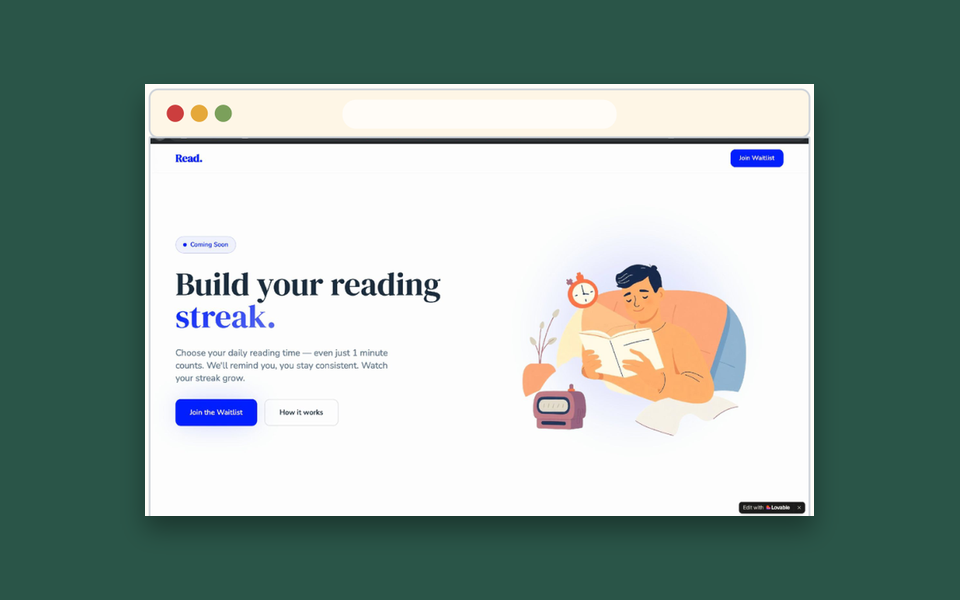
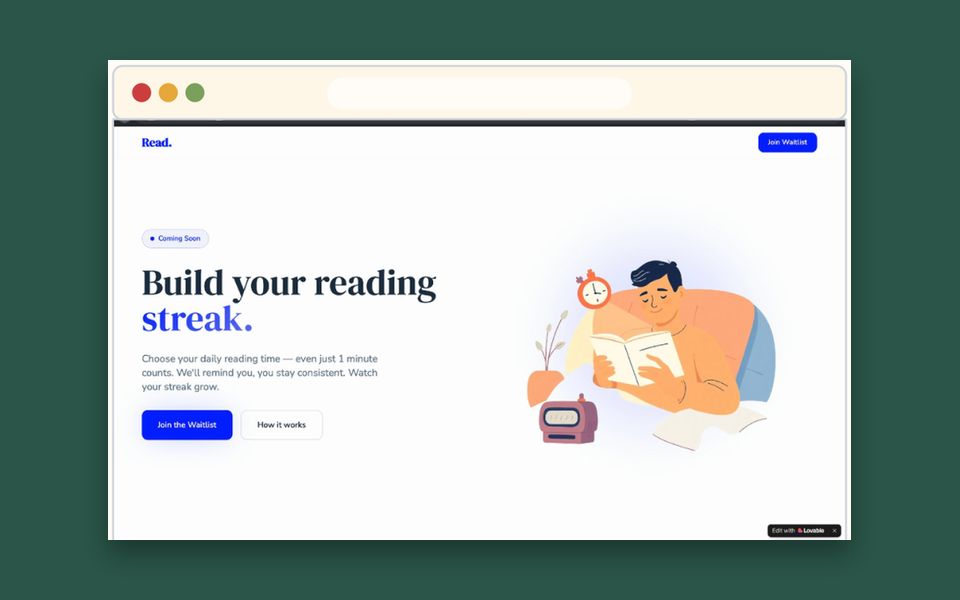
v0.8.4 — Make project card thumbnails feel like a real set
All three thumbnails now share the same Forest background (was 2
Forest + 1 Rust) and similar visual fill-density (was a full-bleed
screenshot next to a small centered icon). Replaced the AI Research
thumbnail's flat triangle silhouette with the "Meet Ben" persona
illustration from the research deck instead — a real asset,
background-removed and recomposited on Forest, not a generated icon.

Also added minimum heights to each card's title/description blocks
so differing text lengths don't produce different internal rhythms.

Changed region(s): [[0.0938, 0.09, 0.9062, 0.9], [0.5312, 0.42, 0.8125, 0.75], [0.6875, 0.72, 0.7188, 0.75]]

diff --git a/app/projects/page.tsx b/app/projects/page.tsx
@@ -45,10 +45,10 @@ function ProjectCard({
             {topics.join(" · ")}
           </span>
         </div>
-        <h3 className="font-newsreader mt-3 text-card-title text-ink">
+        <h3 className="font-newsreader mt-3 min-h-[60px] text-card-title text-ink">
           {title}
         </h3>
-        <p className="font-geist mt-1 text-body text-body-text">
+        <p className="font-geist mt-1 min-h-[52px] text-body text-body-text">
           {description}
         </p>
         <div className="mt-auto flex items-center justify-between gap-4 border-t border-toolbar-outline pt-3">

diff --git a/CHANGELOG.md b/CHANGELOG.md
@@ -3,6 +3,12 @@
 All notable changes to this project are documented here, newest first.
 Format loosely follows [Keep a Changelog](https://keepachangelog.com/); versions follow semver in `package.json`.
 
+## [0.8.4] - 2026-09-13
+
+### Changed
+- Made the three project card thumbnails actually feel like a set: all three now share the same Forest background (was 2 Forest + 1 Rust) and a similar visual fill-density (was a full-bleed browser screenshot next to a small centered icon). Replaced the AI Research thumbnail's flat triangle silhouette with the "Meet Ben" persona illustration from the research deck — a real asset with its background removed and recomposited on Forest, rather than a generated icon.
+- Added minimum heights to each card's title and description blocks so differing text lengths no longer produce different internal card rhythms even though overall card height was already equalized.
+
 ## [0.8.3] - 2026-09-13
 
 ### Fixed
